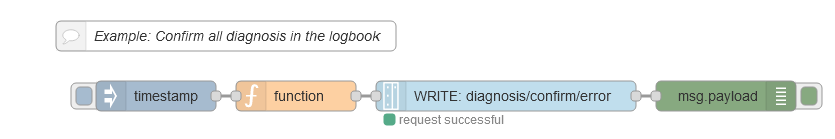
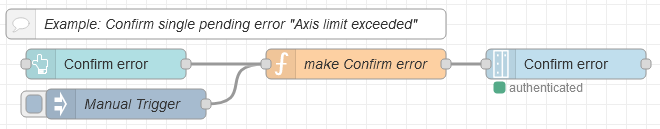
added reset error

diff --git a/doc/EXAMPLES.md b/doc/EXAMPLES.md
@@ -15,23 +15,24 @@ This page contains various examples for different use cases. Looking through the
 - [Monitor CPU utilisation in line chart](#monitor-cpu-utilisation-in-line-chart)
 - [Use a catch node to handle errors](#use-a-catch-node-to-handle-errors)
 
-[Diagnosis Logbook examples](#diagnosis-logbook-examples)
+[Diagnosis and Logbook examples](#diagnosis-and-logbook-examples)
 
-- [Confirm all errors in the diagnosis logbook](#confirm-all-errors-in-the-diagnosis-logbook)
+- [Confirm all pending errors in the system diagnostic](#confirm-all-pending-errors-in-the-system-diagnostic)
+- [Confirm single pending error in the system diagnostic](#confirm-single-pending-error-in-the-system-diagnostic)
 
 [PLC examples](#plc-examples)
 
 - [Read a PLC variable](#read-a-plc-variable)
 - [Write a PLC variable (boolean)](#write-a-plc-variable-boolean)
 
-[Dashboard examples for ctrlX CORE - PLC App](#dashboard-examples-for-ctrlx-core---plc-app)
+[ctrlX CORE - PLC App dashboard examples](#dashboard-examples-for-ctrlx-core---plc-app)
 
 - [Monitor and handle a boolean PLC variable "bBoolean"]( #monitor-and-handle-a-boolean-plc-variable-bboolean)
 - [Monitor and handle an integer PLC variable "iInteger"]( #monitor-and-handle-an-integer-plc-variable-iinteger)
 - [Monitor and handle a real PLC variable "rReal"]( #monitor-and-handle-a-real-plc-variable-rreal)
 - [Monitor and handle a string PLC variable "sString"]( #monitor-and-handle-a-string-plc-variable-sstring)
 
-[Dashboard examples for ctrlX CORE - MOTION App](#dashboard-examples-for-ctrlx-core---motion-app)
+[ctrlX CORE - MOTION App dashboard examples](#dashboard-examples-for-ctrlx-core---motion-app)
 
 - [Monitor and switch motion state]( #monitor-and-switch-motion-state)
 - [Browse and show all available axes]( #browse-and-show-all-available-axes)
@@ -40,8 +41,9 @@ This page contains various examples for different use cases. Looking through the
 - [Monitor position of an axis "AxisX"]( #monitor-position-of-an-axis-axisx)
 - [Move an axis "AxisX"]( #move-an-axis-axisx)
 - [Abort an axis movement of "AxisX"]( #abort-an-axis-movement-of-axisx)
+- [Reset an error of "AxisX"](#reset-an-error-of-axisx)
 
-[Dashboard examples for script interpreter and ctrlX CORE - Python Runtime App](#dashboard-examples-for-script-interpreter-and-ctrlx-core---python-runtime-app)
+[Script interpreter and ctrlX CORE - Python Runtime App dashboard examples](#dashboard-examples-for-script-interpreter-and-ctrlx-core---python-runtime-app)
 
 - [Create an interpreter instance "MyInstance" for python]( #create-an-interpreter-instance-myinstance-for-python)
 - [Browse and show all available interpreter instances]( #browse-and-show-all-available-interpreter-instances)
@@ -50,6 +52,10 @@ This page contains various examples for different use cases. Looking through the
 - [Execute a python command in an interpreter instance "MyInstance"]( #execute-a-python-command-in-an-interpreter-instance-myinstance)
 - [Execute a python file "test.py" in an interpreter instance "MyInstance"]( #execute-a-python-file-testpy-in-an-interpreter-instance-myinstance)
 - [Abort an interpreter instance "MyInstance"](#abort-an-interpreter-instance-myinstance)
+
+[ctrlX CORE - EtherCat Master App dashboard examples](#ctrlx-core---ethercat-master-app-dashboard-examples)
+
+- [Monitor and switch state of an EtherCat master instance "ethercatmaster"](#monitor-and-switch-state-of-an-ethercat-master-instance-ethercatmaster)
 
 ## How to import examples
 
@@ -118,16 +124,33 @@ Errors in the nodes e.g. node is missing or node path is invalid can be catched 
 [{"id":"3984d15c.b6a4be","type":"comment","z":"b7f42922c8391768","name":"Example: Use a catch node to handle errors.","info":"","x":430,"y":540,"wires":[]},{"id":"adcdeb72.352b88","type":"debug","z":"b7f42922c8391768","name":"","active":true,"tosidebar":true,"console":false,"tostatus":false,"complete":"false","x":890,"y":600,"wires":[]},{"id":"bf808c7e.2b56a","type":"ctrlx-datalayer-request","z":"b7f42922c8391768","device":"7b877229.678964","method":"READ","path":"invalid/path/value/to/force/error","name":"","x":610,"y":600,"wires":[["adcdeb72.352b88"]]},{"id":"eda269ff.f06d88","type":"inject","z":"b7f42922c8391768","name":"","repeat":"","crontab":"","once":false,"onceDelay":0.1,"topic":"","payload":"","payloadType":"date","x":360,"y":600,"wires":[["bf808c7e.2b56a"]]},{"id":"b55ac3d1.719b1","type":"catch","z":"b7f42922c8391768","name":"","scope":["bf808c7e.2b56a"],"uncaught":false,"x":420,"y":680,"wires":[["e91439fb.0fa298"]]},{"id":"e91439fb.0fa298","type":"debug","z":"b7f42922c8391768","name":"","active":true,"tosidebar":true,"console":false,"tostatus":false,"complete":"true","targetType":"full","x":650,"y":680,"wires":[]},{"id":"7b877229.678964","type":"ctrlx-config","name":"localhost","hostname":"localhost","debug":false}]
 ```
 
-## Diagnosis Logbook examples
+## Diagnosis and Logbook examples
 
-### Confirm all errors in the diagnosis logbook
+### Confirm all pending errors in the system diagnostic
 
-To confirm all errors in the diagnosis logbook you need to send an empty `WRITE` request to `diagnosis/confirm/error`. This can be done by setting the `payload` to null.
+To confirm all pending errors in the system diagnostic you need to send an empty `WRITE` request to `diagnosis/confirm/error`. This can be done by setting the `payload` to null.
 
-![examples_diagnosis_confirm_error.png](./images/examples_diagnosis_confirm_error.png)
+![examples_diagnosis_confirm_errors.png](./images/examples_diagnosis_confirm_errors.png)
+![examples_diagnosis_confirm_errors_dashboard.png](./images/examples_diagnosis_confirm_errors_dashboard.png)
 
 ```JSON
-[{"id":"b5effce.db9fd","type":"comment","z":"b7f42922c8391768","name":"Example: Confirm all diagnosis in the logbook","info":"","x":430,"y":720,"wires":[]},{"id":"477443cd.9b7bd4","type":"debug","z":"b7f42922c8391768","name":"","active":true,"tosidebar":true,"console":false,"tostatus":false,"complete":"false","x":930,"y":780,"wires":[]},{"id":"64d6212b.ba6cd","type":"ctrlx-datalayer-request","z":"b7f42922c8391768","device":"7b877229.678964","method":"WRITE","path":"diagnosis/confirm/error","payloadFormat":"value_type","name":"","x":710,"y":780,"wires":[["477443cd.9b7bd4"]]},{"id":"226bf82.26e5e88","type":"inject","z":"b7f42922c8391768","name":"","repeat":"","crontab":"","once":false,"onceDelay":0.1,"topic":"","payload":"","payloadType":"date","x":360,"y":780,"wires":[["d4a0a352.ae8488"]]},{"id":"d4a0a352.ae8488","type":"function","z":"b7f42922c8391768","name":"","func":"msg.payload = null;\nreturn msg;","outputs":1,"noerr":0,"initialize":"","finalize":"","x":500,"y":780,"wires":[["64d6212b.ba6cd"]]},{"id":"7b877229.678964","type":"ctrlx-config","name":"localhost","hostname":"localhost","debug":false}]
+[{"id":"b5effce.db9fd","type":"comment","z":"ec52577b3db3c043","name":"Example: Confirm all pending errors in the system diagnostic","info":"","x":440,"y":700,"wires":[]},{"id":"64d6212b.ba6cd","type":"ctrlx-datalayer-request","z":"ec52577b3db3c043","device":"7b877229.678964","method":"WRITE","path":"diagnosis/confirm/error","payloadFormat":"value_type","name":"","x":870,"y":740,"wires":[[]]},{"id":"226bf82.26e5e88","type":"inject","z":"ec52577b3db3c043","name":"Manual Trigger","props":[{"p":"payload"},{"p":"topic","vt":"str"}],"repeat":"","crontab":"","once":false,"onceDelay":0.1,"topic":"","payload":"","payloadType":"date","x":340,"y":740,"wires":[["efa89bd3d50d6f25"]]},{"id":"8d40fd0bb68b143c","type":"ui_button","z":"ec52577b3db3c043","name":"","group":"cd7a7d59d153b666","order":1,"width":"3","height":"1","passthru":false,"label":"Confirm errors","tooltip":"","color":"","bgcolor":"","className":"","icon":"","payload":"","payloadType":"str","topic":"topic","topicType":"msg","x":320,"y":780,"wires":[["efa89bd3d50d6f25"]]},{"id":"efa89bd3d50d6f25","type":"function","z":"ec52577b3db3c043","name":"make confirm errors","func":"msg.payload = null;\nreturn msg;","outputs":1,"noerr":0,"initialize":"","finalize":"","libs":[],"x":580,"y":740,"wires":[["64d6212b.ba6cd"]]},{"id":"7b877229.678964","type":"ctrlx-config","name":"localhost","hostname":"localhost","debug":false},{"id":"cd7a7d59d153b666","type":"ui_group","name":"Diagnosis","tab":"9cba2148.8c9148","order":9,"disp":true,"width":"6","collapse":false,"className":""},{"id":"9cba2148.8c9148","type":"ui_tab","name":"Examples","icon":"dashboard","order":7,"disabled":false,"hidden":false}]
+```
+### Confirm single pending error in the system diagnostic
+
+This Example shows how to confirm a single pending error in the system diagnostic. Following error is expected to present in the pending diagnostics:
+
+```JSON
+Main Diagnosis Number : "091F2006"
+Detailed Diagnosis Number : "0C560107"
+Entity : "motion/axs/AxisX" 
+```
+
+![examples_diagnosis_confirm_error.png](./images/examples_diagnosis_confirm_error.png)
+![examples_diagnosis_confirm_error_dashboard.png](./images/examples_diagnosis_confirm_error_dashboard.png)
+
+```JSON
+[{"id":"9c0aca12bc2a9640","type":"function","z":"ec52577b3db3c043","name":"make Confirm error","func":"var newMsg = {};\nnewMsg.payload = { \n  \"type\": \"object\", \n  \"value\": { \n    \"mainDiagnosisNumber\": \"091F2006\", \n    \"detailedDiagnosisNumber\": \"0C560107\", \n    \"entity\": \"motion/axs/AxisX\" \n  } \n}\nreturn newMsg;\n\n","outputs":1,"noerr":0,"initialize":"","finalize":"","libs":[],"x":570,"y":440,"wires":[["a8efc66b4b7461ef"]]},{"id":"bfe0636f9fe41f01","type":"inject","z":"ec52577b3db3c043","name":"Manual Trigger","props":[{"p":"payload"},{"p":"topic","vt":"str"}],"repeat":"","crontab":"","once":false,"onceDelay":0.1,"topic":"","payload":"","payloadType":"date","x":340,"y":480,"wires":[["9c0aca12bc2a9640"]]},{"id":"a8efc66b4b7461ef","type":"ctrlx-datalayer-request","z":"ec52577b3db3c043","device":"7b877229.678964","method":"WRITE","path":"diagnosis/confirm/error","payloadFormat":"value_type","name":"Confirm error","x":780,"y":440,"wires":[[]]},{"id":"3edc488be0bb09aa","type":"comment","z":"ec52577b3db3c043","name":"Example: Confirm single pending error \"Axis limit exceeded\"","info":"","x":440,"y":400,"wires":[]},{"id":"9add50cbdef40e90","type":"ui_button","z":"ec52577b3db3c043","name":"","group":"cd7a7d59d153b666","order":1,"width":"3","height":"1","passthru":false,"label":"Confirm error","tooltip":"","color":"","bgcolor":"","className":"","icon":"","payload":"","payloadType":"str","topic":"topic","topicType":"msg","x":320,"y":440,"wires":[["9c0aca12bc2a9640"]]},{"id":"7b877229.678964","type":"ctrlx-config","name":"localhost","hostname":"localhost","debug":false},{"id":"cd7a7d59d153b666","type":"ui_group","name":"Diagnosis","tab":"9cba2148.8c9148","order":9,"disp":true,"width":"6","collapse":false,"className":""},{"id":"9cba2148.8c9148","type":"ui_tab","name":"Examples","icon":"dashboard","order":7,"disabled":false,"hidden":false}]
 ```
 
 ## PLC examples
@@ -186,7 +209,7 @@ The request returns in `msg.payload` the written value:
 }
 ```
 
-## Dashboard examples for ctrlX CORE - PLC App
+## ctrlX CORE - PLC App dashboard examples
 
 Please note that for these examples the installation of the ctrlX CORE - PLC App is expected. See [our store](https://developer.community.boschrexroth.com/t5/Store-and-How-to/ctrlX-CORE-PLC-App/ba-p/13298) and the corresponding [documentation of the ctrlX CORE - PLC App](https://docs.automation.boschrexroth.com/doc/729184690/plc-app-plc-runtime-environment-for-ctrlx-core-application-manual/latest/en/).
 
@@ -299,7 +322,7 @@ sString;
 [{"id":"52f3b28.7154acc","type":"ctrlx-datalayer-request","z":"4ff80d56.dd60fc","device":"7b877229.678964","method":"WRITE","path":"plc/app/Application/sym/GVL/sString","payloadFormat":"value_type","name":"Write \"sString\" value","x":780,"y":580,"wires":[[]]},{"id":"a84a6218.d8fa38","type":"ui_text_input","z":"4ff80d56.dd60fc","name":"","label":"sString","tooltip":"","group":"938bb9af.bc8108","order":1,"width":0,"height":0,"passthru":false,"mode":"text","delay":"0","topic":"topic","topicType":"msg","x":400,"y":580,"wires":[["b77fcdb1.bb59e"]]},{"id":"b77fcdb1.bb59e","type":"function","z":"4ff80d56.dd60fc","name":"make value","func":"var newMsg = {}\nnewMsg.payload = {\"type\":\"string\",\"value\":msg.payload}\nreturn newMsg;","outputs":1,"noerr":0,"initialize":"","finalize":"","x":570,"y":580,"wires":[["52f3b28.7154acc"]]},{"id":"7fd8a2ba.130acc","type":"ctrlx-datalayer-subscribe","z":"4ff80d56.dd60fc","subscription":"632bcc2.eddf134","path":"plc/app/Application/sym/GVL/sString","name":"Read \"sString\" value","x":200,"y":580,"wires":[["a84a6218.d8fa38"]]},{"id":"efa71414.90e038","type":"comment","z":"4ff80d56.dd60fc","name":"Example: Monitor and handle a string PLC variable \"sString\"","info":"","x":310,"y":540,"wires":[]},{"id":"7b877229.678964","type":"ctrlx-config","name":"localhost","hostname":"localhost","debug":false},{"id":"938bb9af.bc8108","type":"ui_group","name":"PLC Variable handling","tab":"9cba2148.8c9148","order":1,"disp":true,"width":"4","collapse":false},{"id":"632bcc2.eddf134","type":"ctrlx-config-subscription","device":"7b877229.678964","name":"Sub_Default","publishIntervalMs":""},{"id":"9cba2148.8c9148","type":"ui_tab","name":"Examples","icon":"dashboard","order":7,"disabled":false,"hidden":false}]
 ```
 
-## Dashboard examples for ctrlX CORE - MOTION App
+## ctrlX CORE - MOTION App dashboard examples
 
 Please note that for these examples the installation of the ctrlX CORE - MOTION App is expected. See [our store](https://developer.community.boschrexroth.com/t5/Store-and-How-to/ctrlX-CORE-Motion-App/ba-p/13294) and the corresponding [documentation of the ctrlX CORE - MOTION App](https://docs.automation.boschrexroth.com/doc/1993836051/motion-app-motion-laufzeitumgebung-fuer-ctrlx-core-anwendungsbeschreibung/latest/en/).
 
@@ -380,7 +403,18 @@ The following example shows how to abort an movement of a motion axis `AxisX` in
 [{"id":"79e751dd.c8402","type":"function","z":"4ff80d56.dd60fc","name":"make abort command","func":"var newMsg = {};\nnewMsg.payload = {\n      \"type\":\"object\",\n      \"value\":{\"dec\":\"10\",\"jrkDec\":\"0\"}\n     }\nreturn newMsg;","outputs":1,"noerr":0,"initialize":"","finalize":"","libs":[],"x":440,"y":1840,"wires":[["7cb11da0.1916bc"]]},{"id":"7cb11da0.1916bc","type":"ctrlx-datalayer-request","z":"4ff80d56.dd60fc","device":"7b877229.678964","method":"CREATE","path":"motion/axs/AxisX/cmd/abort","payloadFormat":"value_type","name":"\"AxisX\" abort","x":660,"y":1840,"wires":[[]]},{"id":"dc3e7b2.6ab9388","type":"comment","z":"4ff80d56.dd60fc","name":"Example: Abort an axis movement of \"AxisX\"","info":"","x":240,"y":1800,"wires":[]},{"id":"a11e7b1a.b3a8d","type":"ui_button","z":"4ff80d56.dd60fc","name":"","group":"eb7620ae.6f5d","order":3,"width":"2","height":"1","passthru":false,"label":"Stop \"AxisX\"","tooltip":"","color":"","bgcolor":"","icon":"","payload":"","payloadType":"str","topic":"topic","topicType":"msg","x":210,"y":1880,"wires":[["79e751dd.c8402"]]},{"id":"690b0e68.ffc46","type":"inject","z":"4ff80d56.dd60fc","name":"Manual Trigger","props":[{"p":"payload"},{"p":"topic","vt":"str"}],"repeat":"","crontab":"","once":false,"onceDelay":0.1,"topic":"","payload":"","payloadType":"date","x":200,"y":1840,"wires":[["79e751dd.c8402"]]},{"id":"7b877229.678964","type":"ctrlx-config","name":"localhost","hostname":"localhost","debug":false},{"id":"eb7620ae.6f5d","type":"ui_group","name":"Axes handling","tab":"9cba2148.8c9148","order":3,"disp":true,"width":"5","collapse":false},{"id":"9cba2148.8c9148","type":"ui_tab","name":"Examples","icon":"dashboard","order":7,"disabled":false,"hidden":false}]
 ```
 
-## Dashboard examples for script interpreter and ctrlX CORE - Python Runtime App
+### Reset an error of "AxisX"
+
+The following example shows how to reset an error of a motion axis `AxisX` in the ctrlX MOTION. The state of the ctrlX MOTION has to be `Running`. The corresponding motion object has to be present and its state has to be `ERRORSTOP` ([see axis state machine documentation](https://docs.automation.boschrexroth.com/doc/359516816/axis-objects/latest/en/)).
+
+![example-motion-reset-axis-error.png](./images/example-motion-reset-axis-error.png)
+![example-motion-reset-axis-error-dashboard.png](./images/example-motion-reset-axis-error-dashboard.png)
+
+```JSON
+[{"id":"d134226bd80e1be5","type":"function","z":"ec52577b3db3c043","name":"make Reset error","func":"var newMsg = {};\nnewMsg.payload = null\nreturn newMsg;","outputs":1,"noerr":0,"initialize":"","finalize":"","libs":[],"x":590,"y":280,"wires":[["c654bbe59916dcd8"]]},{"id":"c654bbe59916dcd8","type":"ctrlx-datalayer-request","z":"ec52577b3db3c043","device":"7b877229.678964","method":"CREATE","path":"motion/axs/AxisX/cmd/reset","payloadFormat":"value_type","name":"Reset error of \"AxisX\"","x":820,"y":280,"wires":[[]]},{"id":"ee10a5d37883f0b2","type":"comment","z":"ec52577b3db3c043","name":"Example: Reset error of \"AxisX\"","info":"","x":350,"y":240,"wires":[]},{"id":"7e4f970aeb1a9af7","type":"ui_button","z":"ec52577b3db3c043","name":"","group":"eb7620ae.6f5d","order":4,"width":"3","height":"1","passthru":false,"label":"Reset error of \"AxisX\"","tooltip":"","color":"","bgcolor":"","className":"","icon":"","payload":"","payloadType":"str","topic":"topic","topicType":"msg","x":340,"y":320,"wires":[["d134226bd80e1be5"]]},{"id":"a68723ea4473153d","type":"inject","z":"ec52577b3db3c043","name":"Manual Trigger","props":[{"p":"payload"},{"p":"topic","vt":"str"}],"repeat":"","crontab":"","once":false,"onceDelay":0.1,"topic":"","payload":"","payloadType":"date","x":340,"y":280,"wires":[["d134226bd80e1be5"]]},{"id":"7b877229.678964","type":"ctrlx-config","name":"localhost","hostname":"localhost","debug":false},{"id":"eb7620ae.6f5d","type":"ui_group","name":"Axes handling","tab":"9cba2148.8c9148","order":3,"disp":true,"width":"5","collapse":false},{"id":"9cba2148.8c9148","type":"ui_tab","name":"Examples","icon":"dashboard","order":7,"disabled":false,"hidden":false}]
+```
+
+## Script interpreter and ctrlX CORE - Python Runtime App dashboard examples
 
 Please note that for these examples the installation of the `ctrlX CORE - Python Runtime App` is expected. See [our store](https://developer.community.boschrexroth.com/t5/Store-and-How-to/ctrlX-CORE-Python-Runtime-App/ba-p/15901) and the corresponding [documentation of the "Script parser/interpreter (Python)"](https://docs.automation.boschrexroth.com/doc/2758030364/script-parser-interpreter-python/latest/en/).
 
@@ -470,7 +504,7 @@ The following example shows how to abort a running script or command in a script
 [{"id":"0f30727715f9f47e","type":"function","z":"244b5a539daa7df9","name":"make abort command","func":"var newMsg = {};\nreturn newMsg;","outputs":1,"noerr":0,"initialize":"","finalize":"","libs":[],"x":360,"y":1220,"wires":[["73c8c291c5af4037"]]},{"id":"73c8c291c5af4037","type":"ctrlx-datalayer-request","z":"244b5a539daa7df9","device":"7b877229.678964","method":"CREATE","path":"script/instances/MyInstance/cmd/abort","payloadFormat":"value_type","name":"Abort \"MyInstance\"","x":590,"y":1220,"wires":[[]]},{"id":"0ff7dae9e392de65","type":"ui_button","z":"244b5a539daa7df9","name":"","group":"f675e9d2.c9935","order":1,"width":"3","height":"1","passthru":false,"label":"Abort instance","tooltip":"","color":"","bgcolor":"","className":"","icon":"","payload":"","payloadType":"str","topic":"topic","topicType":"msg","x":120,"y":1220,"wires":[["0f30727715f9f47e"]]},{"id":"9b7ad38852b20c26","type":"inject","z":"244b5a539daa7df9","name":"Manual Trigger","props":[{"p":"payload"},{"p":"topic","vt":"str"}],"repeat":"","crontab":"","once":false,"onceDelay":0.1,"topic":"","payload":"","payloadType":"date","x":120,"y":1260,"wires":[["0f30727715f9f47e"]]},{"id":"5048f7d0ef2fe811","type":"comment","z":"244b5a539daa7df9","name":"Example: Abort interpreter instance \"MyInstance\"","info":"","x":200,"y":1180,"wires":[]},{"id":"7b877229.678964","type":"ctrlx-config","name":"localhost","hostname":"localhost","debug":false},{"id":"f675e9d2.c9935","type":"ui_group","name":"Interpreter handling","tab":"9cba2148.8c9148","order":4,"disp":true,"width":"4","collapse":false},{"id":"9cba2148.8c9148","type":"ui_tab","name":"Examples","icon":"dashboard","order":7,"disabled":false,"hidden":false}]
 ```
 
-## Dashboard examples for ctrlX CORE - EtherCat Master App
+## ctrlX CORE - EtherCat Master App dashboard examples
 
 Please note that for these examples the installation of the `ctrlX CORE - EtherCat Master App` is expected. See [our store](https://developer.community.boschrexroth.com/t5/Store-and-How-to/ctrlX-CORE-EtherCAT-Master-App/ba-p/13282) and the corresponding [documentation of the EtherCat Master App](https://docs.automation.boschrexroth.com/doc/3229083526/ethercat-master-app-ethercat-master-for-ctrlx-core-application-manual/latest/en/).
 
